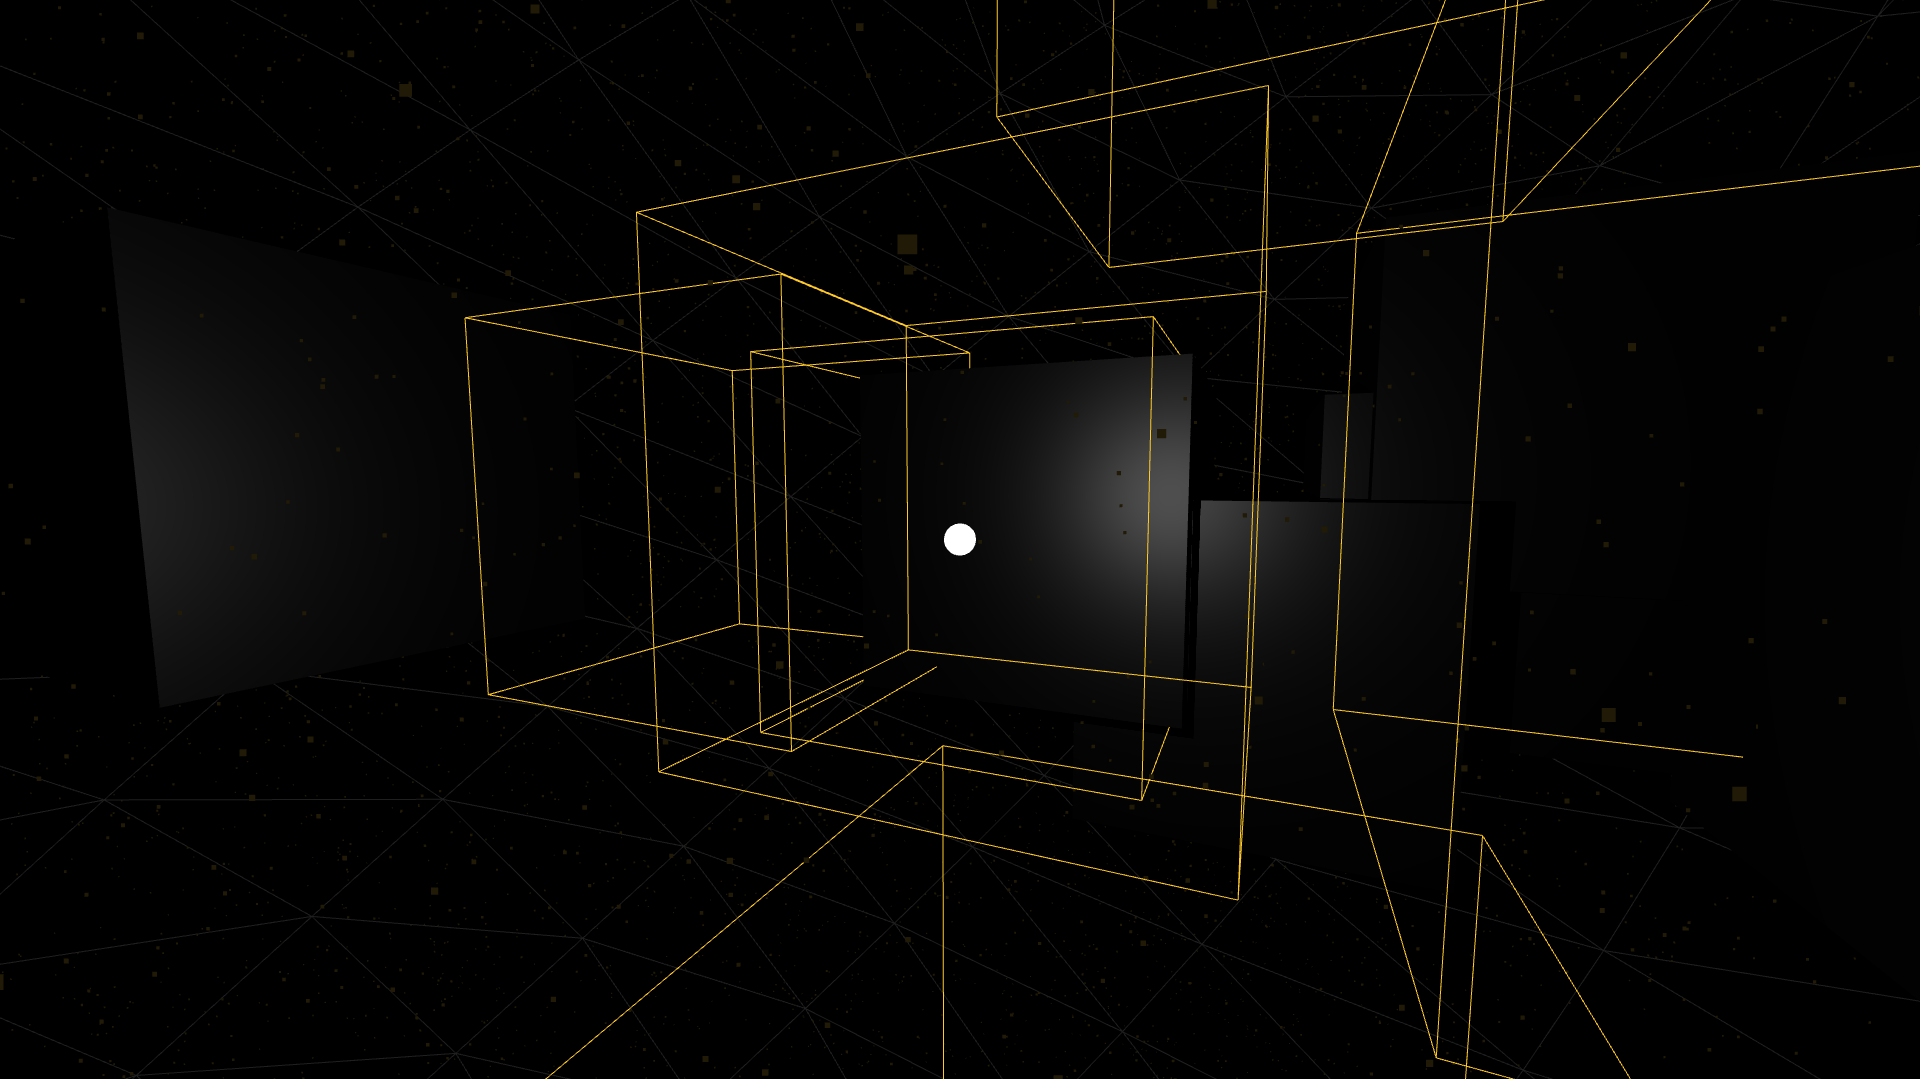
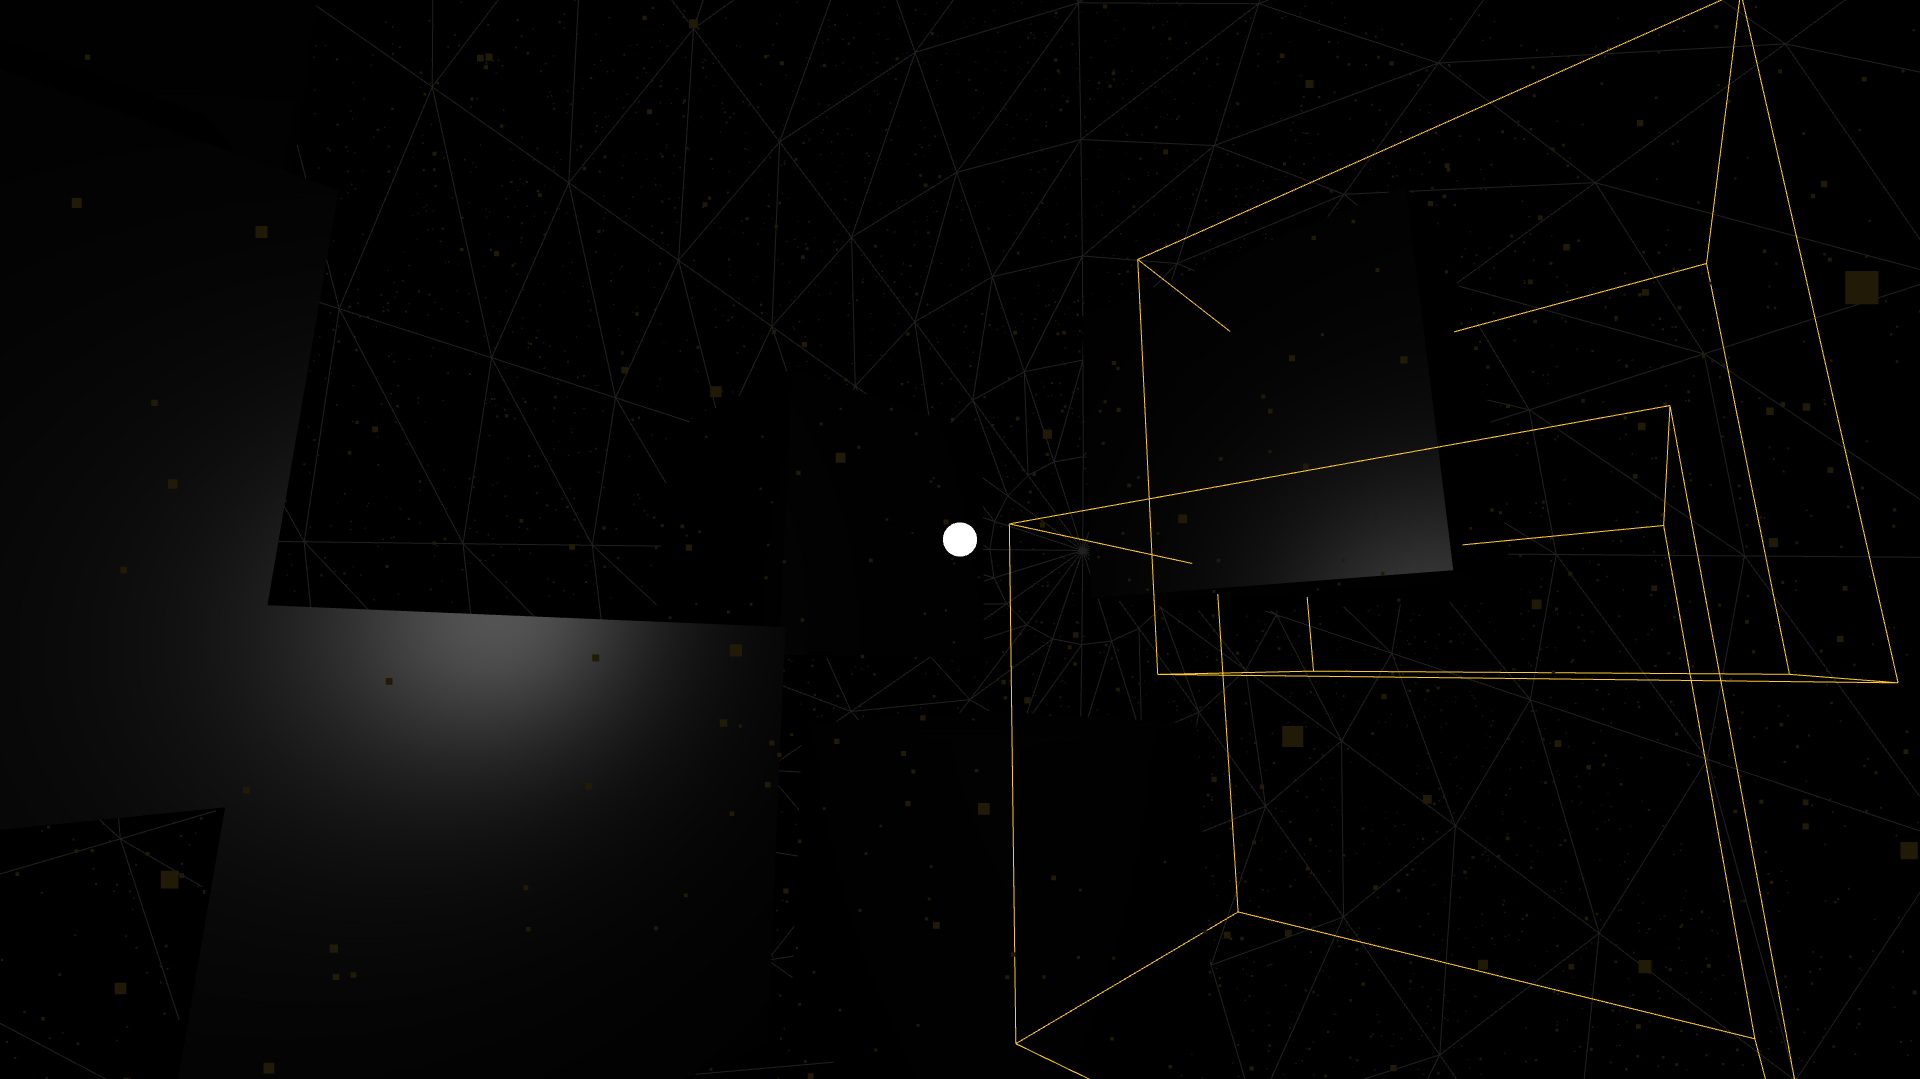
singularity: Updates

diff --git a/sketches/singularity/js/main.js b/sketches/singularity/js/main.js
@@ -161,9 +161,7 @@ function init() {
 	sphereGeo = new THREE.SphereBufferGeometry( 20, 20, 20 );
 	sphereMat = new THREE.MeshBasicMaterial( {
 		color: 0xffffff,
-		transparent: true,
-		opacity: 0.8,
-		wireframe: true,
+		wireframe: true
 	} );
 
 	sphere = new THREE.Mesh( sphereGeo, sphereMat );
@@ -247,9 +245,9 @@ function render( time ) {
 
 	// Animate the background sphere
 
-	sphere.rotation.x = Math.sin( time * 0.0003 );
-	sphere.rotation.y = Math.sin( time * 0.0007 );
-	sphere.rotation.z = Math.sin( time * 0.0005 );
+	sphere.rotation.x = Math.sin( time * 0.00006 );
+	sphere.rotation.y = Math.sin( time * 0.00014 );
+	sphere.rotation.z = Math.sin( time * 0.0001 );
 
 	// Animate the monoliths
 

diff --git a/sketches/singularity/README.md b/sketches/singularity/README.md
@@ -21,8 +21,8 @@ light, which is controlled by **you**.
 - [ ] Display a short message at the beginning
 - [ ] Singularity: Accurately animate the material when the light gains power
       at the beginning
-- [ ] Display the box helpers more prominently
-- [ ] Display the background wireframe sphere more prominently without
+- [x] Display the box helpers more prominently
+- [x] Display the background wireframe sphere more prominently without
       significantly affect the overall view
 - [ ] Randomize monoliths' size
 - [ ] Better ambient music?
